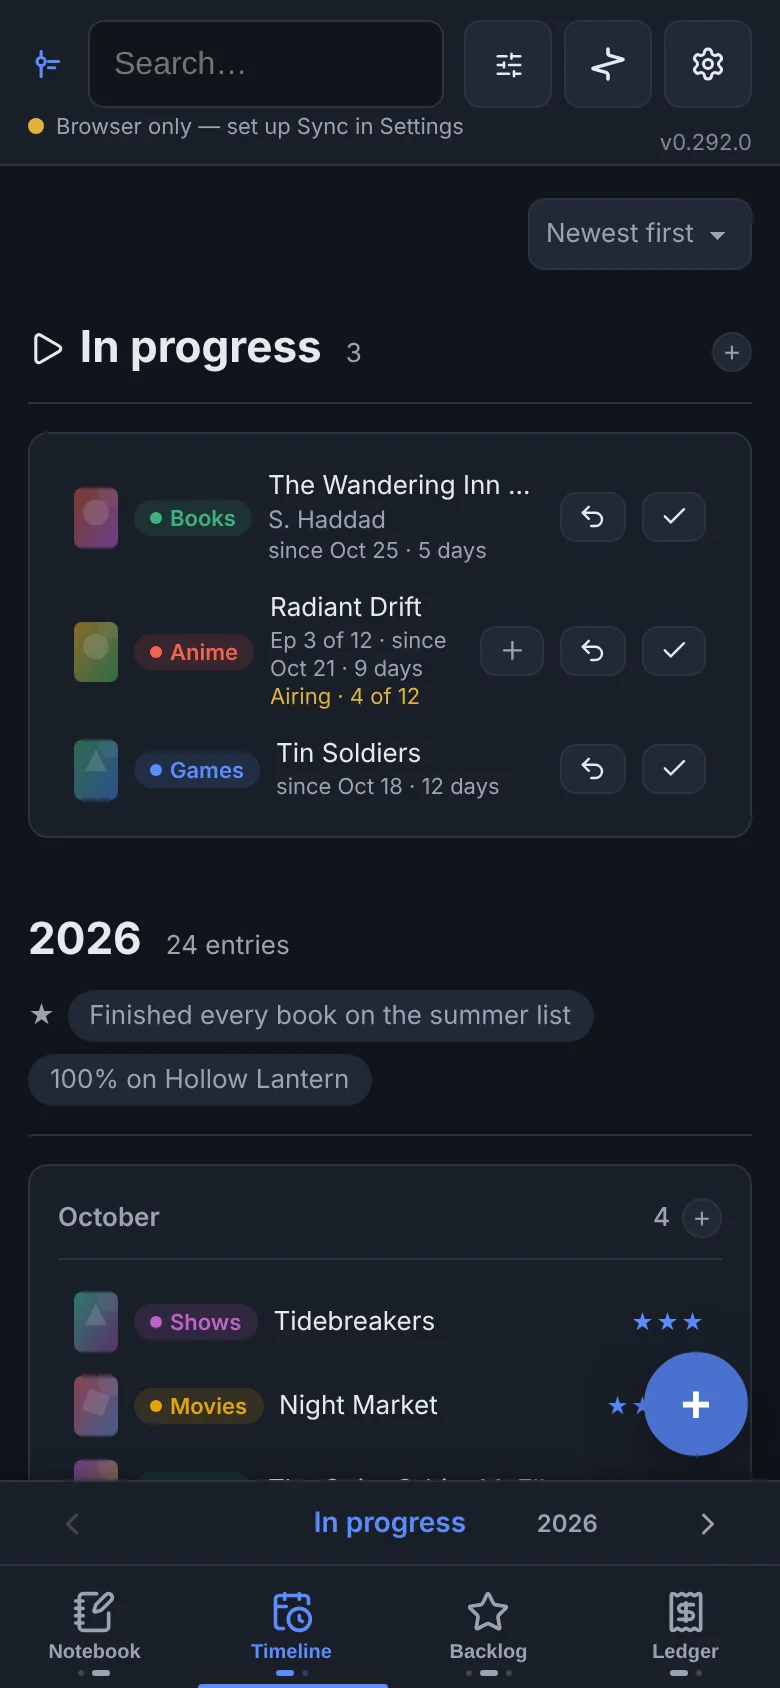
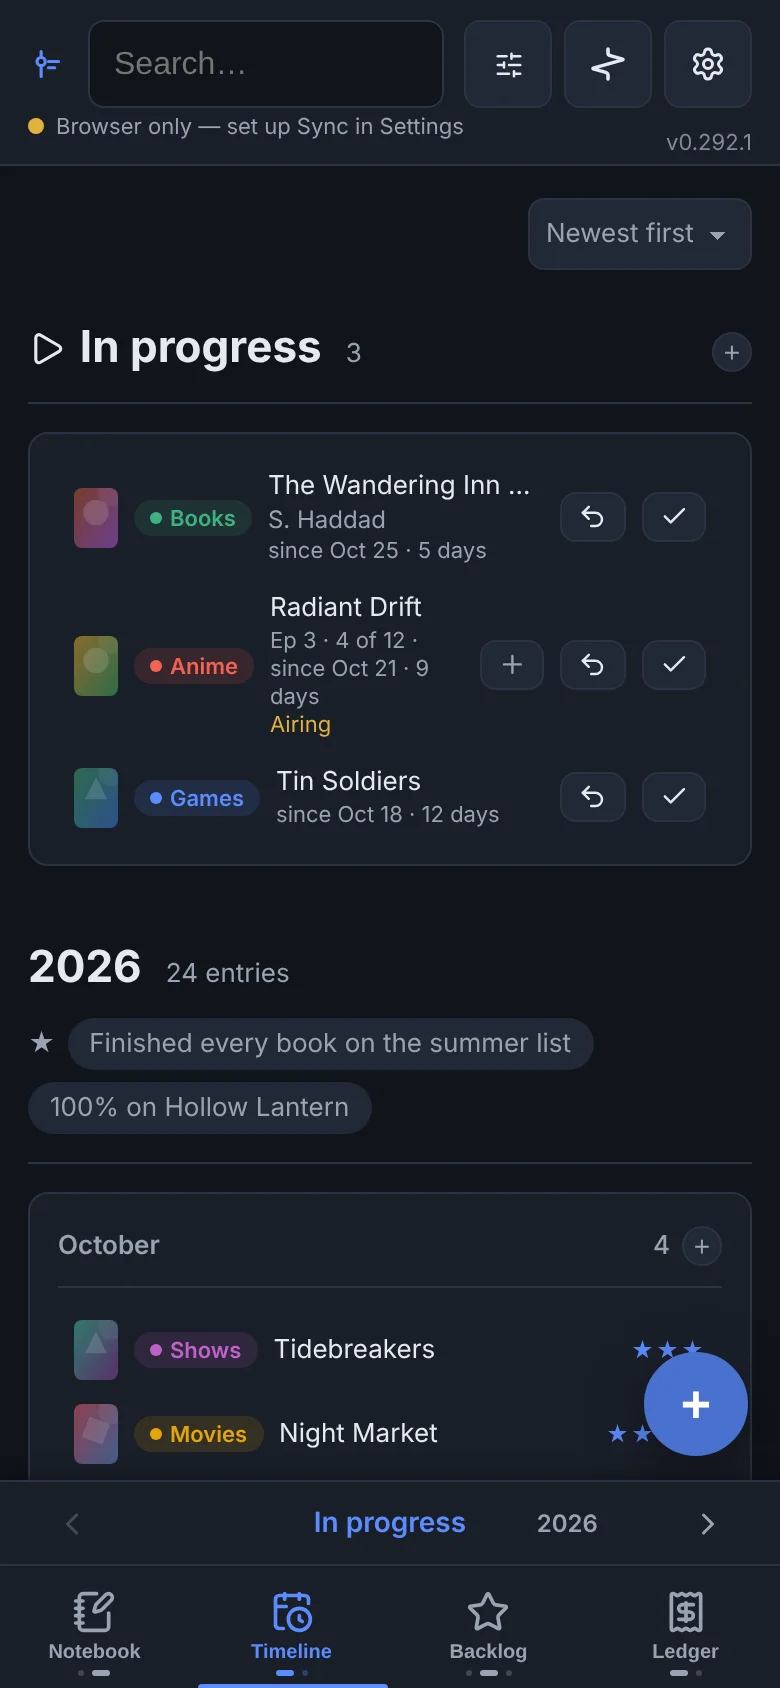
0.292.1: one episode count on In progress for an airing show
Your count and how many are out share a line ("Ep 5 · 6 of 12"), and the
airing label under it drops its own count, as Daniel asked.

Claude-Session: https://claude.ai/code/session_01CFeKrkencn1jZ6tv1jgVFt

diff --git a/index.html b/index.html
@@ -5,7 +5,7 @@
   <meta http-equiv="Content-Security-Policy" content="default-src 'self'; script-src 'self'; style-src 'self'; img-src 'self' data: blob: https:; connect-src 'self' https: http://localhost:* http://127.0.0.1:*; font-src 'self'; object-src 'none'; frame-src 'none'; base-uri 'self'; form-action 'self'; manifest-src 'self'; worker-src 'self'" />
   <meta name="viewport" content="width=device-width, initial-scale=1.0" />
   <title>LifeLog</title>
-  <link rel="stylesheet" href="src/styles.css?v=0.292.0" />
+  <link rel="stylesheet" href="src/styles.css?v=0.292.1" />
   <link rel="manifest" href="manifest.json" />
   <meta name="theme-color" content="#11141a" />
   <link rel="icon" href="icon.svg" type="image/svg+xml" />
@@ -2310,38 +2310,38 @@
     </div>
   </div>
 
-  <script defer src="src/errlog.js?v=0.292.0"></script>
-  <script defer src="src/headless.js?v=0.292.0"></script>
-  <script defer src="src/platform.js?v=0.292.0"></script>
-  <script defer src="src/icons.js?v=0.292.0"></script>
-  <script defer src="src/jobs.js?v=0.292.0"></script>
-  <script defer src="src/reconcile.js?v=0.292.0"></script>
-  <script defer src="src/qr.js?v=0.292.0"></script>
-  <script defer src="src/media.js?v=0.292.0"></script>
-  <script defer src="src/merge.js?v=0.292.0"></script>
-  <script defer src="src/storage.js?v=0.292.0"></script>
-  <script defer src="src/finance.js?v=0.292.0"></script>
-  <script defer src="src/settings.js?v=0.292.0"></script>
-  <script defer src="src/wheel.js?v=0.292.0"></script>
-  <script defer src="src/backlog.js?v=0.292.0"></script>
-  <script defer src="src/journal.js?v=0.292.0"></script>
-  <script defer src="src/markdown.js?v=0.292.0"></script>
-  <script defer src="src/notes.js?v=0.292.0"></script>
-  <script defer src="src/docimport.js?v=0.292.0"></script>
-  <script defer src="src/io.js?v=0.292.0"></script>
-  <script defer src="src/sync.js?v=0.292.0"></script>
-  <script defer src="src/habits.js?v=0.292.0"></script>
-  <script defer src="src/vendor/rough.js?v=0.292.0"></script>
-  <script defer src="src/boards.js?v=0.292.0"></script>
-  <script defer src="src/travel.js?v=0.292.0"></script>
-  <script defer src="src/recap.js?v=0.292.0"></script>
-  <script defer src="src/reminders.js?v=0.292.0"></script>
-  <script defer src="src/alerts.js?v=0.292.0"></script>
-  <script defer src="src/widgets.js?v=0.292.0"></script>
-  <script defer src="src/share.js?v=0.292.0"></script>
-  <script defer src="src/search.js?v=0.292.0"></script>
-  <script defer src="src/letterboxd.js?v=0.292.0"></script>
-  <script defer src="src/payments.js?v=0.292.0"></script>
-  <script defer src="src/app.js?v=0.292.0"></script>
+  <script defer src="src/errlog.js?v=0.292.1"></script>
+  <script defer src="src/headless.js?v=0.292.1"></script>
+  <script defer src="src/platform.js?v=0.292.1"></script>
+  <script defer src="src/icons.js?v=0.292.1"></script>
+  <script defer src="src/jobs.js?v=0.292.1"></script>
+  <script defer src="src/reconcile.js?v=0.292.1"></script>
+  <script defer src="src/qr.js?v=0.292.1"></script>
+  <script defer src="src/media.js?v=0.292.1"></script>
+  <script defer src="src/merge.js?v=0.292.1"></script>
+  <script defer src="src/storage.js?v=0.292.1"></script>
+  <script defer src="src/finance.js?v=0.292.1"></script>
+  <script defer src="src/settings.js?v=0.292.1"></script>
+  <script defer src="src/wheel.js?v=0.292.1"></script>
+  <script defer src="src/backlog.js?v=0.292.1"></script>
+  <script defer src="src/journal.js?v=0.292.1"></script>
+  <script defer src="src/markdown.js?v=0.292.1"></script>
+  <script defer src="src/notes.js?v=0.292.1"></script>
+  <script defer src="src/docimport.js?v=0.292.1"></script>
+  <script defer src="src/io.js?v=0.292.1"></script>
+  <script defer src="src/sync.js?v=0.292.1"></script>
+  <script defer src="src/habits.js?v=0.292.1"></script>
+  <script defer src="src/vendor/rough.js?v=0.292.1"></script>
+  <script defer src="src/boards.js?v=0.292.1"></script>
+  <script defer src="src/travel.js?v=0.292.1"></script>
+  <script defer src="src/recap.js?v=0.292.1"></script>
+  <script defer src="src/reminders.js?v=0.292.1"></script>
+  <script defer src="src/alerts.js?v=0.292.1"></script>
+  <script defer src="src/widgets.js?v=0.292.1"></script>
+  <script defer src="src/share.js?v=0.292.1"></script>
+  <script defer src="src/search.js?v=0.292.1"></script>
+  <script defer src="src/letterboxd.js?v=0.292.1"></script>
+  <script defer src="src/payments.js?v=0.292.1"></script>
+  <script defer src="src/app.js?v=0.292.1"></script>
 </body>
 </html>

diff --git a/src/backlog.js b/src/backlog.js
@@ -150,10 +150,11 @@
   // ---------- how far a show has run (0.265.0) ----------
   // The words for the airing fields (see AIRING_COUNTS in media.js). Nothing
   // for "upcoming": the year or TBA beside it already says that.
-  function airingLabel(b) {
+  // `counted` leaves the count to the episode count beside it (0.292.1).
+  function airingLabel(b, counted) {
     const manga = /manga/.test(b.mediaSource || "");
     const out = +b.episodesOut || 0, total = +b.episodesTotal || 0;
-    const count = out && total ? out + " of " + total : out ? out + " out" : "";
+    const count = counted ? "" : out && total ? out + " of " + total : out ? out + " out" : "";
     const season = b.airingSeason ? "S" + b.airingSeason + " " : "";
     const withCount = (s) => s + (count ? " · " + count : "");
     switch (b.airing) {
@@ -266,8 +267,11 @@
   // Episode count switch is on.
   const countWord = (b) => (/manga/.test(b.mediaSource || "") ? "Ch" : "Ep");
   const countTotal = (b) => +b.episodesTotal || 0;
+  // Still airing, how many are out joins it (0.292.1): "Ep 5 · 6 of 12",
+  // watched, out, all of it, as Daniel asked, rather than two counts.
   function progressLabel(b) {
-    const n = Math.max(0, +b.progress || 0), total = countTotal(b);
+    const n = Math.max(0, +b.progress || 0), total = countTotal(b), out = +b.episodesOut || 0;
+    if (stillAiring(b) && out) return countWord(b) + " " + n + " · " + (total ? out + " of " + total : out + " out");
     return countWord(b) + " " + n + (total ? " of " + total : "");
   }
   async function setProgress(b, n) {
@@ -325,7 +329,7 @@
     // A show also says how far it has run (0.280.0), as its backlog row does.
     const counted = categoryShows(b.category).progress;
     const since = el("span", "progress-since", (counted ? progressLabel(b) + " · " : "") + sinceLabel(b.startedAt));
-    const airing = airingLabel(b);
+    const airing = airingLabel(b, counted);
     if (airing) since.appendChild(el("span", "bl-airing progress-airing" + (airingDone(b) ? " is-done" : ""), airing));
     text.appendChild(since);
     row.appendChild(text);
@@ -3019,9 +3023,10 @@
     const on = shows.progress && $("#bStarted").checked;
     $("#bProgressWrap").hidden = !on;
     if (!on) return;
-    const src = $("#bMediaSource").value, total = +$("#bEpisodesTotal").value || 0;
+    const src = $("#bMediaSource").value, total = +$("#bEpisodesTotal").value || 0, out = +$("#bEpisodesOut").value || 0;
+    const airing = ["airing", "hiatus"].includes($("#bAiring").value) && out;
     $("#bProgressLabel").textContent = /manga/.test(src) ? "Chapters read" : "Episodes watched";
-    $("#bProgressOf").textContent = total ? "of " + total : "";
+    $("#bProgressOf").textContent = airing ? (total ? out + " of " + total + " out" : out + " out") : total ? "of " + total : "";
   }
   function nudgeProgressField(by) {
     const n = Math.max(0, (parseInt($("#bProgress").value, 10) || 0) + by);

diff --git a/test/browser/anilist.js b/test/browser/anilist.js
@@ -127,14 +127,14 @@ const media = (id, title, extra) => ({ id, type: "ANIME", title: { romaji: title
     doc.settings.anilist.token = "tok";
     doc.settings.mediaCategorySources = { ...(doc.settings.mediaCategorySources || {}), Anime: "anilist-anime" };
     const dd = doc.backlog.find((x) => x.id === "b2");
-    Object.assign(dd, { startedAt: "2026-09-02", progress: 4, progressAt: "2026-10-01T00:00:00.000Z" });
+    Object.assign(dd, { startedAt: "2026-09-02", progress: 4, progressAt: "2026-10-01T00:00:00.000Z", airing: "airing", episodesOut: 6, episodesTotal: 12 });
     localStorage.setItem("lifelog-cache-v1", JSON.stringify(doc));
     localStorage.setItem("lifelog-ui-v1", JSON.stringify({ view: "timeline" }));
     localStorage.setItem("lifelog-anilist-base-v1", JSON.stringify({ "anilist-anime:9": { s: "current", p: 4 } }));
   });
   await page.reload({ waitUntil: "networkidle" }); await page.waitForTimeout(400);
   const progressRow = await page.evaluate(() => [...document.querySelectorAll(".progress-row")].map((r) => r.textContent).find((t) => /Dandadan/.test(t)) || "");
-  check("the In progress row shows the count", /Ep 4 · since/.test(progressRow), progressRow);
+  check("the In progress row joins the count to how many are out, once", /Ep 4 · 6 of 12 · since/.test(progressRow) && /Airing$/.test(progressRow) && progressRow.split("6 of 12").length === 2, progressRow);
   await page.evaluate(() => [...document.querySelectorAll(".progress-row")].find((r) => /Dandadan/.test(r.textContent)).querySelector(".progress-up").click());
   await page.waitForTimeout(4500);
   check("+ sends episode 5 to AniList, and only the count", saved.length === 1 && saved[0].mediaId === 9 && saved[0].progress === 5 && !saved[0].status, saved);

diff --git a/src/app.js b/src/app.js
@@ -164,7 +164,7 @@
   // hideWidgets keeps notes and to-dos out of the widgets while locked.
   const DEFAULT_PRIVACY = { enabled: false, pinHash: null, pinSalt: null, pinKdf: null, credentialId: null, graceMinutes: 0, lastUnlockAt: 0,
     relockMinutes: 5, fails: 0, lockedUntil: 0, bioOnOpen: true, privacyScreen: false, hideWidgets: false };
-  const APP_VERSION = "0.292.0"; // bump with each shipped change so it's visible in Settings
+  const APP_VERSION = "0.292.1"; // bump with each shipped change so it's visible in Settings
 
   const CATEGORY_PALETTE = ["#e23b3b", "#e2723b", "#e2b23b", "#9fe23b", "#3be25a", "#3bb2e2", "#5b8cff", "#723be2", "#b23be2", "#e23b72", "#7a8a99"];
 

diff --git a/sw.js b/sw.js
@@ -12,7 +12,7 @@
 // touched — intercepting those and falling back to index.html on failure
 // previously turned a real network/CORS error into a fake 200 OK full of HTML,
 // masking the actual failure from the app's own error handling.
-const CACHE = "lifelog-v244";
+const CACHE = "lifelog-v245";
 // Note: lifelog.json is intentionally NOT precached — it isn't deployed (your
 // data is private). The app fetches it at runtime with a graceful fallback.
 const ASSETS = [

diff --git a/NOTES.md b/NOTES.md
@@ -16,6 +16,11 @@ what was decided against and why.
 
 ---
 
+- **One count on In progress (0.292.1).** Daniel, after 0.292.0: an
+  airing show showed its count twice ("Ep 4 of 12" and "Airing · 6 of
+  12"). Joined as "Ep 4 · 6 of 12" (watched · out of total), the airing
+  label passed `counted` so it drops its own count. Only where the
+  category counts; elsewhere the airing label is as before.
 - **AniList both ways (0.292.0).** Daniel asked for AniList applied on
   every open, Watching shown as In progress, completion dates placing
   entries, and a +1 episode control that writes back; then for the count

diff --git a/CHANGELOG.md b/CHANGELOG.md
@@ -4,6 +4,14 @@ All notable changes to LifeLog are documented here. The version number
 always matches `APP_VERSION` in `src/app.js`, shown as "LifeLog vX.Y.Z" at
 the bottom of Settings.
 
+## [0.292.1] - 2026-10-30
+
+### Changed
+- **One count on In progress.** For a show still airing, your episode
+  count and how many are out share one line: "Ep 5 · 6 of 12" is episode
+  5 watched, 6 of 12 out. The airing line under it just says Airing. The
+  sheet shows "6 of 12 out" beside the count.
+
 ## [0.292.0] - 2026-10-30
 
 ### Added
